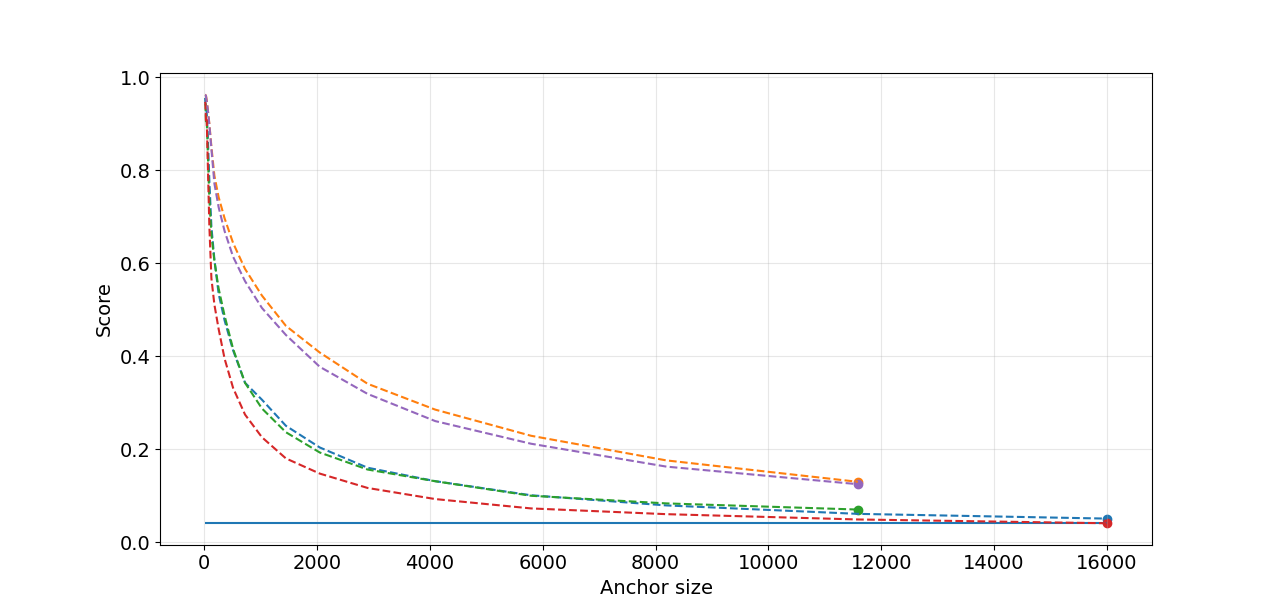
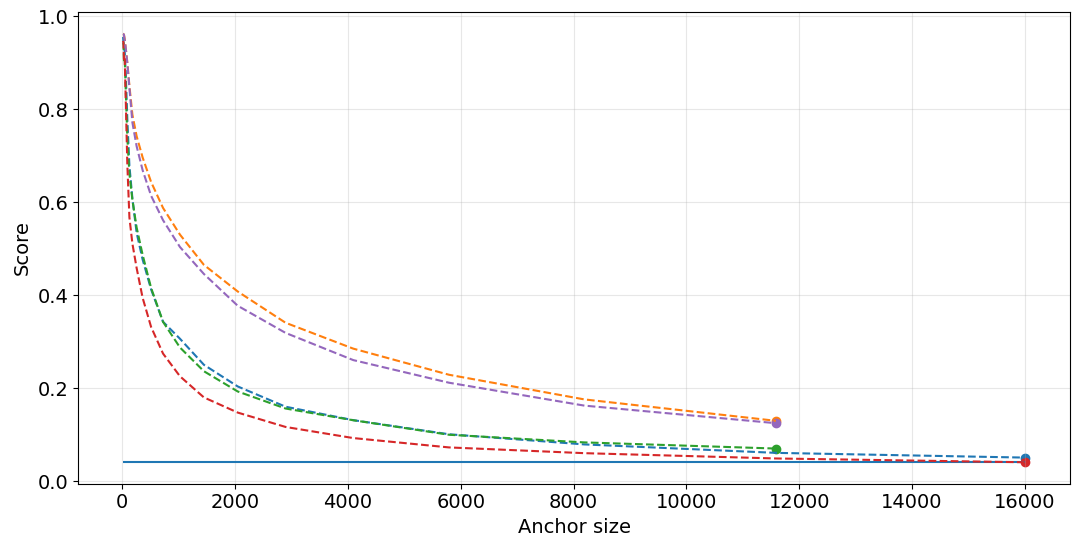
final

diff --git a/Assignment2_LearningCurves/example_run_experiment.py b/Assignment2_LearningCurves/example_run_experiment.py
@@ -4,6 +4,7 @@ import logging
 import matplotlib.pyplot as plt
 import pandas as pd
 import os
+import numpy as np
 
 from tqdm import tqdm
 from lccv import LCCV
@@ -25,14 +26,14 @@ def get_paths(data_idx):
 
     return config_path, performance_path
 
-def parse_args():
-    config_path, performance_path = get_paths(DATASET_IDX)
+def parse_args(data_id):
+    config_path, performance_path = get_paths(data_id)
     parser = argparse.ArgumentParser()
     parser.add_argument('--config_space_file', type=str, default= config_path)
     parser.add_argument('--configurations_performance_file', type=str, default= performance_path)
     # max_anchor_size: connected to the configurations_performance_file. The max value upon which anchors are sampled
     parser.add_argument('--minimal_anchor', type=int, default=256)
-    parser.add_argument('--max_anchor_size', type=int, default=16000)
+    parser.add_argument('--max_anchor_size', type=int, default=500)
     parser.add_argument('--num_iterations', type=int, default=20)
 
     return parser.parse_args()
@@ -50,7 +51,9 @@ def run(args):
     surrogate_model = SurrogateModel(config_space)
     surrogate_model.fit(df)
 
-    lccv = LCCV(surrogate_model, args.minimal_anchor, args.max_anchor_size, budget=float('inf'))
+    fig, ax = plt.subplots(1, 2, figsize=(12, 8))
+    print(args.max_anchor_size)
+    lccv = LCCV(surrogate_model, args.minimal_anchor, args.max_anchor_size, budget=200000000, anchors=df['anchor_size'][:-1])
     best_so_far = None
     
     for idx in range(args.num_iterations):
@@ -61,13 +64,37 @@ def run(args):
             best_so_far = final_result
         x_values = [i[0] for i in result]
         y_values = [i[1] for i in result]
-        plt.plot(x_values, y_values, "-o")
+        if len(x_values) == 1:
+            ax[0].hlines(y_values, args.minimal_anchor, args.max_anchor_size, linestyle='--')
+        else:
+            ax[0].plot(x_values, y_values, ":")
+            ax[0].scatter(x_values[-1], final_result, marker='o')
+        ax[0].set_xlabel('Anchor size')
+        ax[0].set_ylabel('Score')
+
+
+    ipl = IPL(surrogate_model, args.minimal_anchor, args.max_anchor_size, budget=float('inf'))
+    best_so_far = None
+    
+    for idx in range(args.num_iterations):
+        theta_new = dict(config_space.sample_configuration())
+        result = ipl.evaluate_model(best_so_far, theta_new)
+        final_result = result[-1][1]
+        if best_so_far is None or final_result < best_so_far:
+            best_so_far = final_result
+        x_values = [i[0] for i in result]
+        y_values = [i[1] for i in result]
+        if len(x_values) == 1:
+            ax[1].hlines(y_values, args.minimal_anchor, args.max_anchor_size, linestyle='--')
+        else:
+            ax[1].plot(x_values, y_values, ":")
+        ax[1].scatter(x_values[-1], y_values[-1], marker='o')
+    ax[1].set_xlabel('Anchor size')
 
     plt.show()
-
 
 if __name__ == '__main__':
     root = logging.getLogger()
     root.setLevel(logging.INFO)
 
-    run(parse_args())
+    run(parse_args(6))

diff --git a/Assignment2_LearningCurves/lccv.py b/Assignment2_LearningCurves/lccv.py
@@ -6,8 +6,8 @@ from surrogate_model import SurrogateModel
 from vertical_model_evaluator import VerticalModelEvaluator
 
 class LCCV(VerticalModelEvaluator):
-    def __init__(self, surrogate_model: SurrogateModel, minimal_anchor: int, final_anchor: int, budget: int, results={}):
-        super().__init__(surrogate_model=surrogate_model, minimal_anchor=minimal_anchor, final_anchor=final_anchor, budget=budget, results=results)
+    def __init__(self, surrogate_model: SurrogateModel, minimal_anchor: int, final_anchor: int, budget: int, results={}, anchors=None):
+        super().__init__(surrogate_model=surrogate_model, minimal_anchor=minimal_anchor, final_anchor=final_anchor, budget=budget, results=results, anchors=anchors)
     
     @staticmethod
     def optimistic_extrapolation(
@@ -62,6 +62,8 @@ class LCCV(VerticalModelEvaluator):
         
         try:
             steps = np.linspace(0.3*self.final_anchor, 0.8*self.final_anchor, 6) # type: ignore
+            if self.anchors is not None:
+                steps = self.anchors
             for step in steps:
                 if len(self.results[configuration]) < 2: # Cannot extrapolate if there arent two points 
                     performance = self.surrogate_model.predict(conf, step)

diff --git a/Assignment2_LearningCurves/run_experiment.py b/Assignment2_LearningCurves/run_experiment.py
@@ -157,8 +157,8 @@ if __name__ == '__main__':
     ipl_dict = {'best_f': [], 'cost': [], 'num_hpc': []}
     random_dict = {'best_f': [], 'cost': [], 'num_hpc': []}
 
-    dataset_id = 1457
-    print(f'Available budget = {10 * 1200}')
+    dataset_id = 11
+    print(f'Available budget = {10 * 500}')
     for _ in tqdm(range(20)):
 
         root = logging.getLogger()
